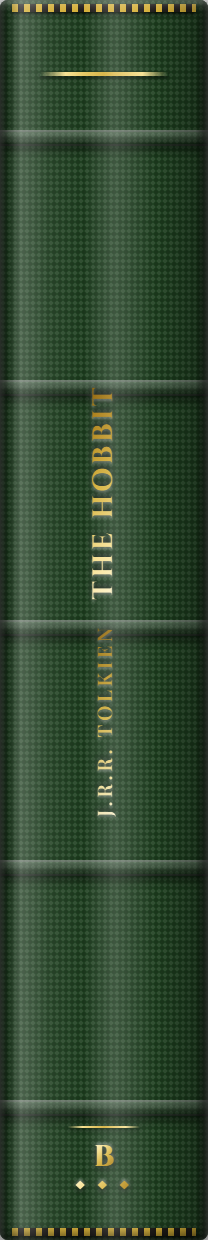
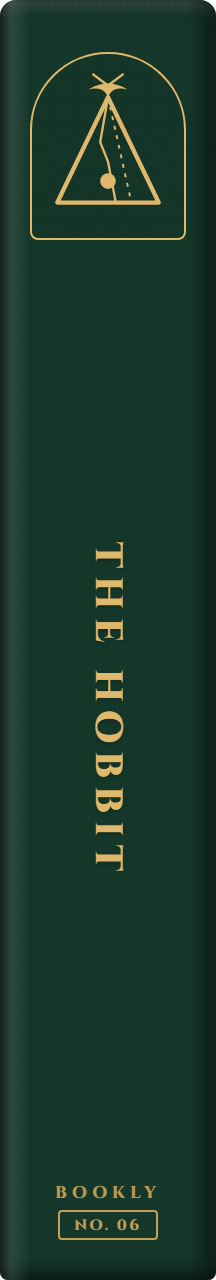
Update book spines to 20 collectible editions with illustrated vignettes

diff --git a/data/catalog/spines/shelf_preview.html b/data/catalog/spines/shelf_preview.html
@@ -1,0 +1,161 @@
+
+<!DOCTYPE html>
+<html>
+<head>
+  <meta charset="utf-8">
+  <title>Bookly Top 20 Collectible Book Spines</title>
+  <style>
+    body {
+      background: #F0ECE1;
+      font-family: -apple-system, BlinkMacSystemFont, 'Segoe UI', Roboto, sans-serif;
+      margin: 0;
+      padding: 50px 20px;
+      display: flex;
+      flex-direction: column;
+      align-items: center;
+    }
+    h1 {
+      font-size: 28px;
+      color: #2C2825;
+      margin-bottom: 8px;
+      letter-spacing: 0.05em;
+    }
+    p {
+      color: #6E6862;
+      margin-bottom: 40px;
+      font-size: 15px;
+    }
+    .shelf-wrapper {
+      background: #E5DFD3;
+      padding: 40px 30px 0 30px;
+      border-radius: 12px;
+      box-shadow: 0 20px 40px rgba(0,0,0,0.12), inset 0 2px 4px rgba(255,255,255,0.4);
+      max-width: 95vw;
+      overflow-x: auto;
+    }
+    .shelf-rack {
+      display: flex;
+      gap: 6px;
+      align-items: flex-end;
+      padding-bottom: 0px;
+    }
+    .spine-item {
+      width: 108px;
+      height: 640px;
+      flex-shrink: 0;
+      transition: transform 0.25s cubic-bezier(0.2, 0.8, 0.2, 1), filter 0.25s ease;
+      cursor: pointer;
+    }
+    .spine-item:hover {
+      transform: translateY(-24px) scale(1.03);
+      filter: drop-shadow(0 16px 20px rgba(0,0,0,0.25));
+      z-index: 10;
+    }
+    .spine-item img {
+      width: 100%;
+      height: 100%;
+      display: block;
+    }
+    .shelf-base {
+      height: 22px;
+      background: linear-gradient(180deg, #C2B6A3 0%, #AFA28E 100%);
+      border-top: 2px solid #8E8270;
+      box-shadow: 0 8px 16px rgba(0,0,0,0.18);
+      margin: 0 -30px;
+      border-radius: 0 0 12px 12px;
+    }
+  </style>
+</head>
+<body>
+  <h1>Bookly Collectible Spines — Top 20 Classic Editions</h1>
+  <p>Inspired by vintage clothbound &amp; VHS collection bookbinding. Standing in catalog sequence.</p>
+  
+  <div class="shelf-wrapper">
+    <div class="shelf-rack">
+      
+        <div class="spine-item" title="NO. 01 - PRIDE & PREJUDICE (Jane Austen)">
+          <img src="spine_01_pride_and_prejudice.png" alt="PRIDE & PREJUDICE" />
+        </div>
+      
+        <div class="spine-item" title="NO. 02 - 1984 (George Orwell)">
+          <img src="spine_02_1984.png" alt="1984" />
+        </div>
+      
+        <div class="spine-item" title="NO. 03 - THE GREAT GATSBY (F. Scott Fitzgerald)">
+          <img src="spine_03_the_great_gatsby.png" alt="THE GREAT GATSBY" />
+        </div>
+      
+        <div class="spine-item" title="NO. 04 - TO KILL A MOCKINGBIRD (Harper Lee)">
+          <img src="spine_04_to_kill_a_mockingbird.png" alt="TO KILL A MOCKINGBIRD" />
+        </div>
+      
+        <div class="spine-item" title="NO. 05 - DUNE (Frank Herbert)">
+          <img src="spine_05_dune.png" alt="DUNE" />
+        </div>
+      
+        <div class="spine-item" title="NO. 06 - THE HOBBIT (J.R.R. Tolkien)">
+          <img src="spine_06_the_hobbit.png" alt="THE HOBBIT" />
+        </div>
+      
+        <div class="spine-item" title="NO. 07 - FRANKENSTEIN (Mary Shelley)">
+          <img src="spine_07_frankenstein.png" alt="FRANKENSTEIN" />
+        </div>
+      
+        <div class="spine-item" title="NO. 08 - DRACULA (Bram Stoker)">
+          <img src="spine_08_dracula.png" alt="DRACULA" />
+        </div>
+      
+        <div class="spine-item" title="NO. 09 - THE PICTURE OF DORIAN GRAY (Oscar Wilde)">
+          <img src="spine_09_the_picture_of_dorian_gray.png" alt="THE PICTURE OF DORIAN GRAY" />
+        </div>
+      
+        <div class="spine-item" title="NO. 10 - MEDITATIONS (Marcus Aurelius)">
+          <img src="spine_10_meditations.png" alt="MEDITATIONS" />
+        </div>
+      
+        <div class="spine-item" title="NO. 11 - THE ART OF WAR (Sun Tzu)">
+          <img src="spine_11_the_art_of_war.png" alt="THE ART OF WAR" />
+        </div>
+      
+        <div class="spine-item" title="NO. 12 - MOBY-DICK (Herman Melville)">
+          <img src="spine_12_moby_dick.png" alt="MOBY-DICK" />
+        </div>
+      
+        <div class="spine-item" title="NO. 13 - ALICE IN WONDERLAND (Lewis Carroll)">
+          <img src="spine_13_alices_adventures_in_wonderland.png" alt="ALICE IN WONDERLAND" />
+        </div>
+      
+        <div class="spine-item" title="NO. 14 - HOUND OF THE BASKERVILLES (Arthur Conan Doyle)">
+          <img src="spine_14_the_hound_of_the_baskervilles.png" alt="HOUND OF THE BASKERVILLES" />
+        </div>
+      
+        <div class="spine-item" title="NO. 15 - THE TIME MACHINE (H. G. Wells)">
+          <img src="spine_15_the_time_machine.png" alt="THE TIME MACHINE" />
+        </div>
+      
+        <div class="spine-item" title="NO. 16 - THE WAR OF THE WORLDS (H. G. Wells)">
+          <img src="spine_16_the_war_of_the_worlds.png" alt="THE WAR OF THE WORLDS" />
+        </div>
+      
+        <div class="spine-item" title="NO. 17 - TREASURE ISLAND (Robert Louis Stevenson)">
+          <img src="spine_17_treasure_island.png" alt="TREASURE ISLAND" />
+        </div>
+      
+        <div class="spine-item" title="NO. 18 - 20,000 LEAGUES UNDER THE SEAS (Jules Verne)">
+          <img src="spine_18_twenty_thousand_leagues.png" alt="20,000 LEAGUES UNDER THE SEAS" />
+        </div>
+      
+        <div class="spine-item" title="NO. 19 - AROUND THE WORLD IN 80 DAYS (Jules Verne)">
+          <img src="spine_19_around_the_world_in_80_days.png" alt="AROUND THE WORLD IN 80 DAYS" />
+        </div>
+      
+        <div class="spine-item" title="NO. 20 - EMMA (Jane Austen)">
+          <img src="spine_20_emma.png" alt="EMMA" />
+        </div>
+      
+    </div>
+    <div class="shelf-base"></div>
+  </div>
+</body>
+</html>
+  
